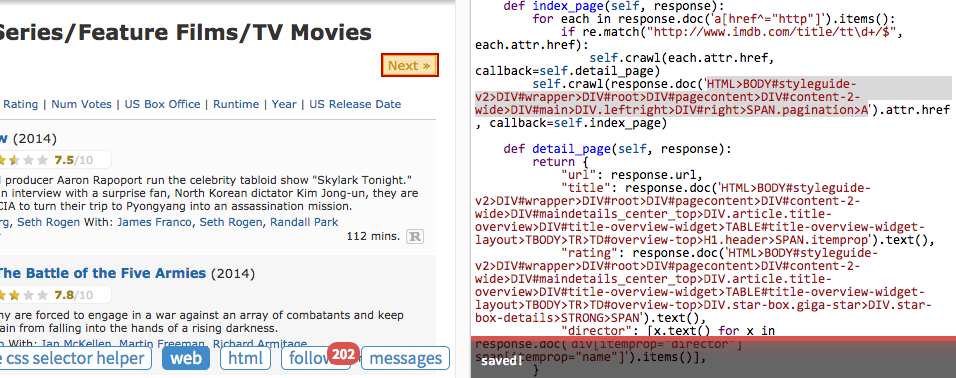
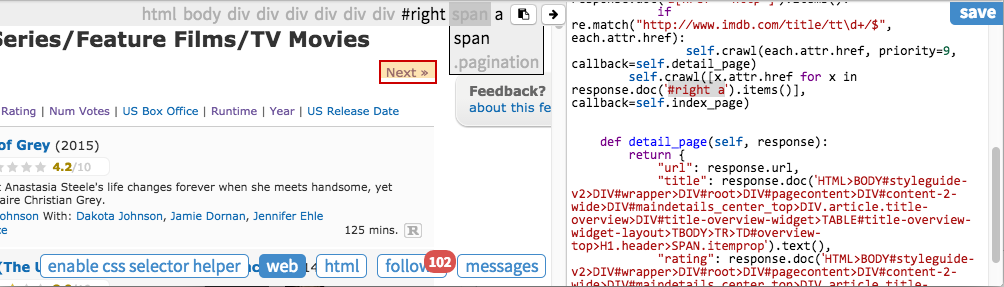
update docs for curl command support of `self.crawl` and new css-selector helper

diff --git a/pyspider/run.py b/pyspider/run.py
@@ -366,8 +366,9 @@ def phantomjs(ctx, phantomjs_path, port):
         os.path.dirname(pyspider.__file__), 'fetcher/phantomjs_fetcher.js')
     try:
         _phantomjs = subprocess.Popen([phantomjs_path,
-                                      phantomjs_fetcher,
-                                      str(port)])
+                                       "--ssl-protocol=any",
+                                       phantomjs_fetcher,
+                                       str(port)])
     except OSError:
         return None
 

diff --git a/docs/tutorial/HTML-and-CSS-Selector.md b/docs/tutorial/HTML-and-CSS-Selector.md
@@ -105,26 +105,22 @@ pyspider provide a tool called `CSS selector helper` to make it easier to genera
 
 ![CSS Selector helper](imgs/css_selector_helper.png)
 
-The element will be highlighted in yellow when mouse over. When you click it, all elements with same CSS Selector will frame in red and add the pattern to the cursor position of your code. Add following code and put cursor between the two quotation marks:
+The element will be highlighted in yellow while mouse over. When you click it, a pre-selected CSS Selector pattern is shown on the bar above. You can edit the features to locate the element and add it to your source code.
 
-```
-        self.crawl(response.doc('').attr.href, callback=self.index_page)
-```
-
-click "Next »", selector pattern should have been added to your code:
+click "Next »" in the page and add selector pattern to your code:
 
 ```
     def index_page(self, response):
         for each in response.doc('a[href^="http"]').items():
             if re.match("http://www.imdb.com/title/tt\d+/$", each.attr.href):
                 self.crawl(each.attr.href, callback=self.detail_page)
-        self.crawl(response.doc('HTML>BODY#styleguide-v2>DIV#wrapper>DIV#root>DIV#pagecontent>DIV#content-2-wide>DIV#main>DIV.leftright>DIV#right>SPAN.pagination>A').attr.href, callback=self.index_page)
+        self.crawl(response.doc('#right a').attr.href, callback=self.index_page)
 ```
 
 Click `run` again and move to the next page, we found that "« Prev" has the same selector pattern as "Next »". When using above code you may find pyspider selected the link of "« Prev", not "Next »". A solution for this is select both of them:
 
 ```
-        self.crawl([x.attr.href for x in response.doc('HTML>BODY#styleguide-v2>DIV#wrapper>DIV#root>DIV#pagecontent>DIV#content-2-wide>DIV#main>DIV.leftright>DIV#right>SPAN.pagination>A').items()], callback=self.index_page)
+        self.crawl([x.attr.href for x in response.doc('#right a').items()], callback=self.index_page)
 ```
 
 Extracting Information
@@ -138,17 +134,17 @@ Add keys you need to result dict and collect value using `CSS selector helper` r
     def detail_page(self, response):
         return {
             "url": response.url,
-            "title": response.doc('HTML>BODY#styleguide-v2>DIV#wrapper>DIV#root>DIV#pagecontent>DIV#content-2-wide>DIV#maindetails_center_top>DIV.article.title-overview>DIV#title-overview-widget>TABLE#title-overview-widget-layout>TBODY>TR>TD#overview-top>H1.header>SPAN.itemprop').text(),
-            "rating": response.doc('HTML>BODY#styleguide-v2>DIV#wrapper>DIV#root>DIV#pagecontent>DIV#content-2-wide>DIV#maindetails_center_top>DIV.article.title-overview>DIV#title-overview-widget>TABLE#title-overview-widget-layout>TBODY>TR>TD#overview-top>DIV.star-box.giga-star>DIV.star-box-details>STRONG>SPAN').text(),
-            "director": [x.text() for x in response.doc('div[itemprop="director"] span[itemprop="name"]').items()],
+            "title": response.doc('.header > [itemprop="name"]').text(),
+            "rating": response.doc('.star-box-giga-star').text(),
+            "director": [x.text() for x in response.doc('[itemprop="director"] span').items()],
         }
 ```
 
-Note that, `CSS Selector helper` may not always work (directors and starts have a same pattern). You can write selector pattern manually with tools like [Chrome Dev Tools](https://developer.chrome.com/devtools):
+Note that, `CSS Selector helper` may not always work. You could write selector pattern manually with tools like [Chrome Dev Tools](https://developer.chrome.com/devtools):
 
 ![inspect element](imgs/inspect_element.png)
 
-You doesn't need to write every ancestral element in selector pattern, only the elements which can differentiate with not needed elements, is enough. However, it needs experience on scraping or Web developing to know which attribute is important, can be used as locator. You can also test CSS Selector in the JavaScript Console by using `$$` like `$$('div[itemprop="director"] span[itemprop="name"]')`
+You doesn't need to write every ancestral element in selector pattern, only the elements which can differentiate with not needed elements, is enough. However, it needs experience on scraping or Web developing to know which attribute is important, can be used as locator. You can also test CSS Selector in the JavaScript Console by using `$$` like `$$('[itemprop="director"] span')`
 
 Running
 -------

diff --git a/docs/apis/self.crawl.md b/docs/apis/self.crawl.md
@@ -46,6 +46,15 @@ self.crawl(url, **kwargs)
 * `taskid` - unique id for each task. _default: md5(url)_ , can be overrided by define your own `def get_taskid(self, task)`
 * `force_update` - force update task params when task is in `ACTIVE` status.
 
+cURL command
+------------
+
+`self.crawl(curl_command)`
+
+cURL is a command line tool to make a HTTP request. cURL command can get from chrome devtools > network panel, right click a request and `Copy as cURL`.
+
+You can use cURL command as the first argument of `self.crawl`. It will parse the command and make the HTTP request just like curl do.
+
 @config(**kwargs)
 -----------------
 default kwargs for self.crawl of method. Any `self.crawl` with this callback will use this config.

diff --git a/docs/tutorial/AJAX-and-more-HTTP.md b/docs/tutorial/AJAX-and-more-HTTP.md
@@ -90,6 +90,13 @@ You can get this with [Chrome Developer Tools](https://developer.chrome.com/devt
 
 In most case, the last thing you need is to copy right URL + method + headers + body from Network panel.
 
+cURL command
+------------
+
+`self.crawl` supports `cURL` command as argument to make the HTTP request. It will parse the arguments in the command and use it as fetch parameters.
+
+With `Copy as cURL` of a request, you can get a `cURL` command and paste to `self.crawl(command)` to make crawling easy.
+
 HTTP Method
 -----------
 
